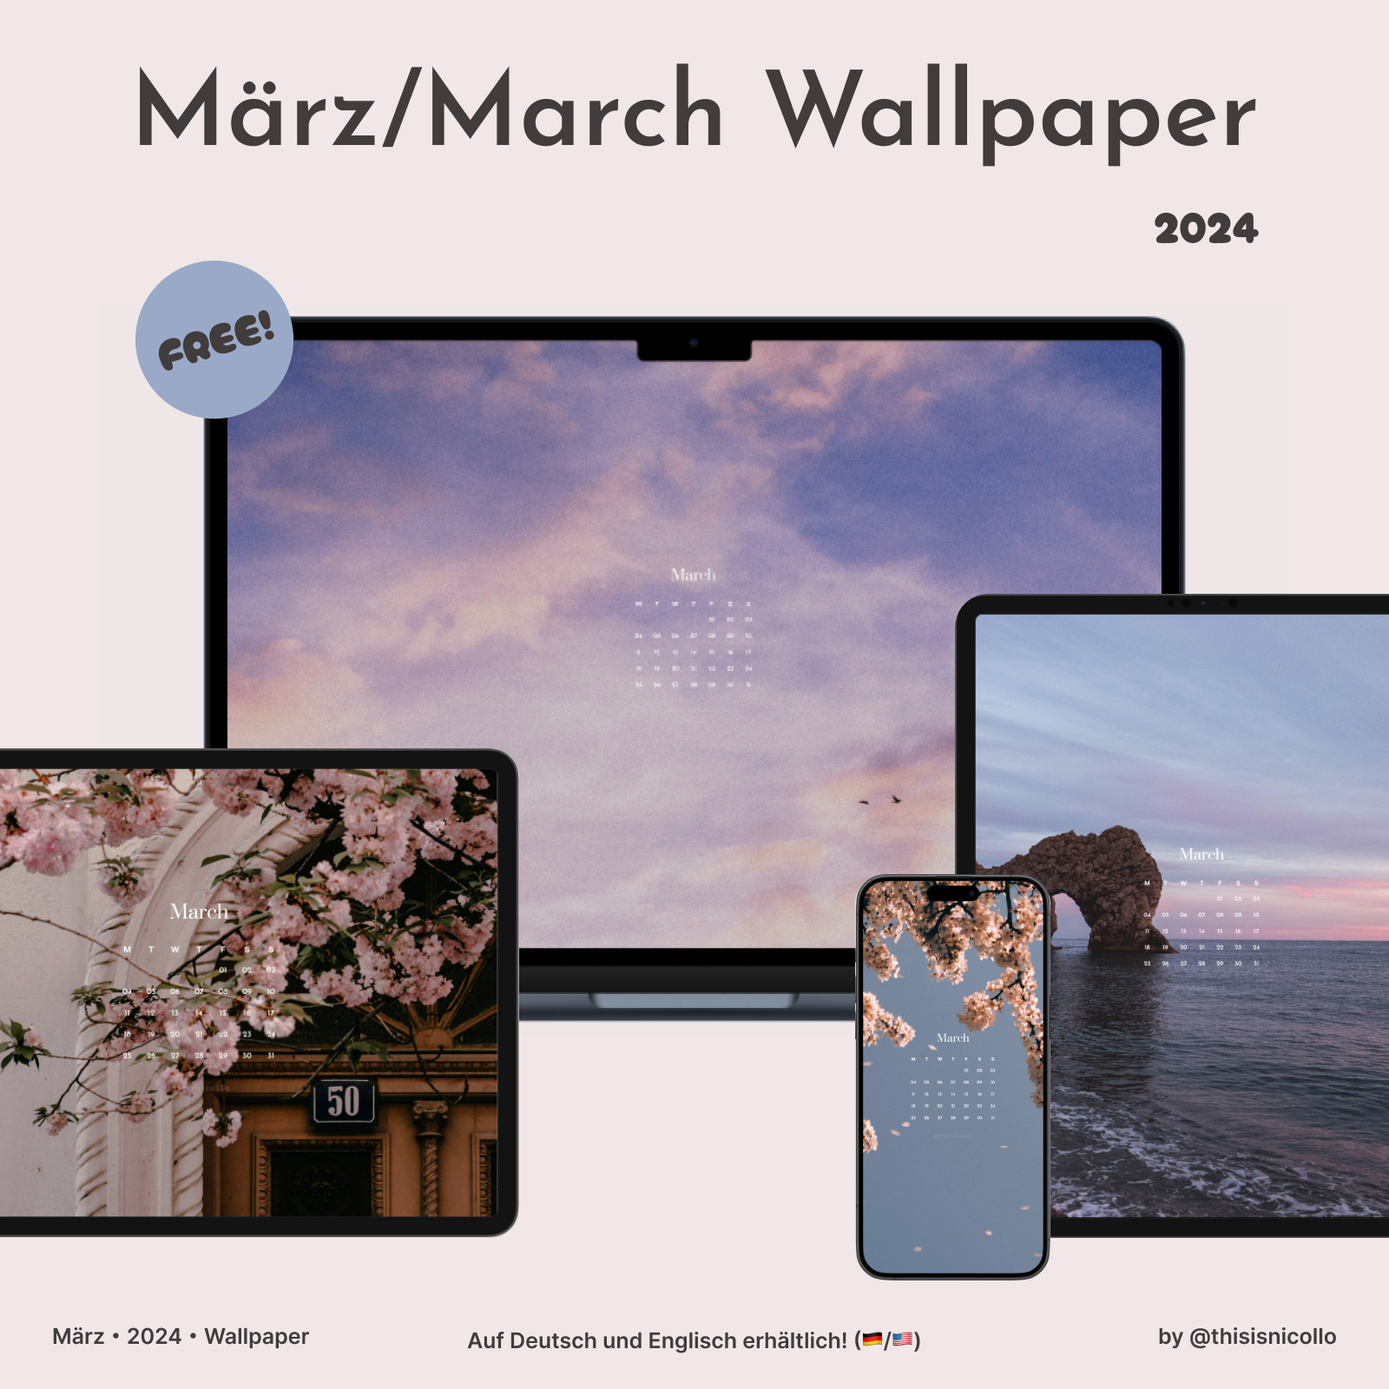
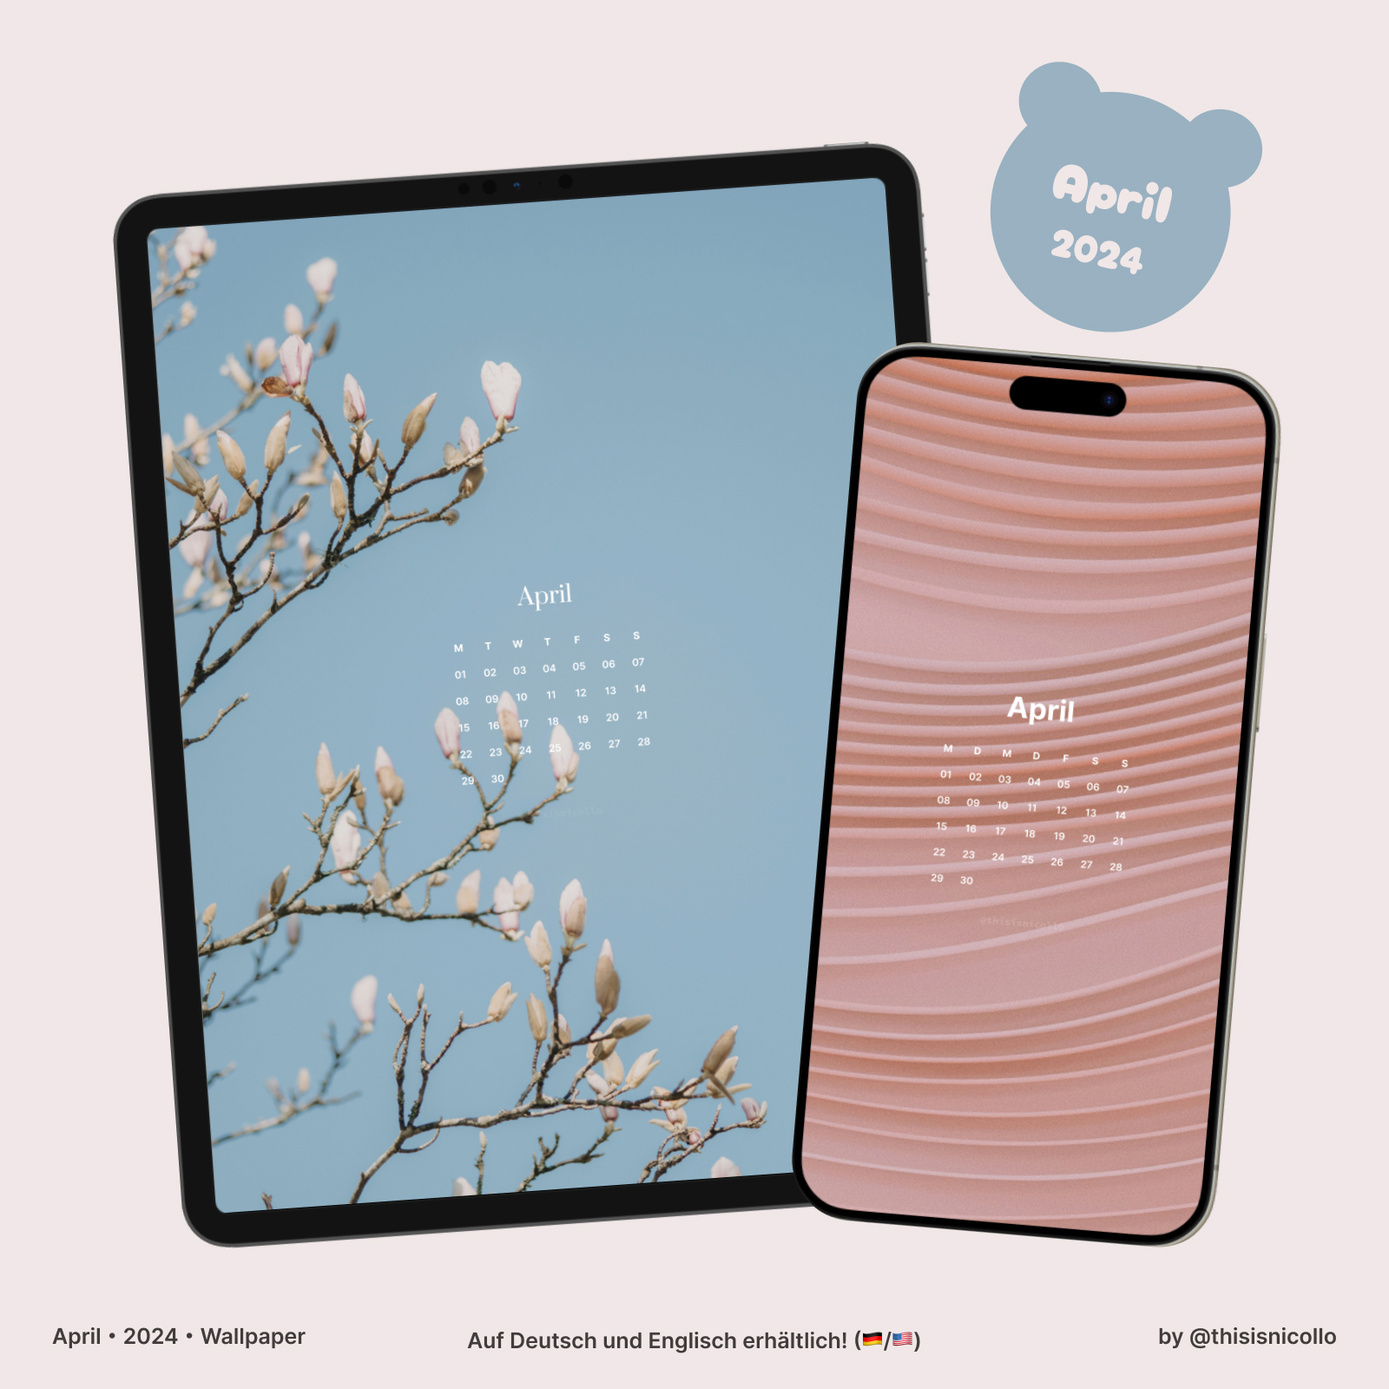
04_2024

diff --git a/README.md b/README.md
@@ -1,14 +1,15 @@
 <p align="center">
-  <img src="Assets/March_2024_Wallpaper1.jpg" alt="März 2024 Wallpaper Titel" width="">
+  <img src="Assets/April_2024_Wallpaper1.jpg" alt="April 2024 Wallpaper Titel" width="">
 </p>
 
-# 🖼 März 2024 Wallpaper 
+# 🖼 April 2024 Wallpaper 
 
-Der März ist da und der Frühling rückt immer näher! Es ist die Zeit, in der die Natur erwacht, Blumen blühen und die Tage länger werden. Um diese wunderbare Jahreszeit zu feiern, habe ich eine Sammlung passender Wallpaper für den März und den aufkommenden Frühling zusammengestellt. 🌷✨ 
+Der April ist endlich da,! Die Natur erwacht, die Blumen beginnen zu blühen, und die Tage werden länger.🐇🌸
+Um diese zauberhafte Jahreszeit zu feiern, habe ich eine Sammlung passender Wallpaper für den April zusammengestellt. 
 
-Schau dich um und finde das perfekte Wallpaper für dich 🧸💻🤍!
+Wähle dein Lieblings-Wallpaper und genieße den Frühling in vollen Zügen! 🌷🤍!
 
-[⏬🌷Wallpaper Vorschau](#wallpaper)<br><br>[⏬🇺🇸English below](#english)
+[⏬💗Wallpaper Vorschau](#wallpaper)<br><br>[⏬🇺🇸English below](#english)
 
 ## 📥 Nutzung
 Bitte beachte, dass die Nutzung der Bilder ausschließlich für die privatenutzung bestimmt ist. Jegliche kommerzielle Nutzung oder Weiterverbreitung der Bilder ist ohne ausdrückliche Genehmigung der Rechteinhaber untersagt.
@@ -23,8 +24,8 @@ Eine genaue Anleitung zum Downloaden findest du hier: [YouTube Tutorial](https:/
 
 <p align="center">
   <img src="Assets/Bild-1.jpg" width="33%" />
-  <img src="Assets/Bild-3.jpg" width="33%" /> 
-  <img src="Assets/Bild-2.jpg" width="33%" />
+  <img src="Assets/Bild-2.jpg" width="33%" /> 
+  <img src="Assets/Bild-3.jpg" width="33%" />
 </p>
 
 ## 📄 Hinweis
@@ -38,21 +39,22 @@ Ich möchte sicherstellen, dass alle Rechte Respektiert werden und darum die ent
 Diese Sammlung wurde von [thisisnicollo](https://github.com/thisisnicollo) erstellt. <div id="english"></div> 
 
 ## 🖥 Alle Wallpaper
-Die folgenden Vorschaubilder sind für Desktop, Smartphone und Tablet erhältlich. Die Kalender sind auf Deutsch und Englisch verfügbar. <br>
-[⏬🌷Wallpaper Vorschau](#wallpaper)
+Die folgenden Vorschaubilder sind für Desktop, Smartphone und Tablet erhältlich. Die Kalender sind auf Deutsch und Englisch sowie auch in zwei Schriftarten verfügbar. <br>
+[⏬💗Wallpaper Vorschau](#wallpaper)
 
 
-# 🖼 March 2024 Wallpaper
+# 🖼 April 2024 Wallpaper
 
-March is here, and spring is getting closer and closer! It's the time when nature awakens, flowers bloom, and the days grow longer. To celebrate this wonderful season, I've put together a collection of suitable wallpapers for March and the upcoming spring. 🌷✨
+April is finally here! Nature is awakening, the flowers are starting to bloom and the days are getting longer.🐇🌸 
+To celebrate this magical time of year, I've put together a collection of suitable wallpapers for April. 
 
-Take a look around and find the perfect wallpaper for you! 🧸💻🤍
+Choose your favorite wallpaper and enjoy spring to the fullest 🌷🤍!
 
 ## 📥 Usage
 Please note that the use of the images is strictly for personal use only. Any commercial use or redistribution of the images is prohibited without the explicit permission of the copyright holders.
 
 **Download instructions:**
-1. go to [Releases](https://github.com/thisisnicollo/March_2024_Wallpaper/releases) on the right.
+1. go to [Releases](https://github.com/thisisnicollo/April_2024_Wallpaper/releases) on the right.
 2. select the desired language and device category (e.g. English/Desktop).
 3. click on the corresponding package (zip).
 4. unzip the ZIP file and use the contained images as background on your devices.
@@ -61,8 +63,8 @@ You can find detailed instructions for downloading here: [YouTube Tutorial](http
 
 <p align="center">
   <img src="Assets/Bild-1.jpg" width="33%" />
-  <img src="Assets/Bild-3.jpg" width="33%" /> 
-  <img src="Assets/Bild-2.jpg" width="33%" />
+  <img src="Assets/Bild-2.jpg" width="33%" /> 
+  <img src="Assets/Bild-3.jpg" width="33%" />
 </p>
 
 ## 📄 Disclaimer
@@ -77,106 +79,226 @@ This collection were created by [thisisnicollo](https://github.com/thisisnicollo
 <div id="wallpaper"></div> 
 
 ## 🖥 All Wallpapers
-The Wallpapers are available for desktop, smartphone and tablet.
+The Wallpapers are available for desktop, smartphone and tablet. The calendars are available in German and English as well as in two fonts.
 
-### 🖥 [Desktop](Desktop)
+### 🖥 Desktop Sans Serif
 
-#### 🇩🇪 [Deutsch](Desktop/Deutsch)
+#### 🇩🇪 [Deutsch](Deutsch/Desktop/Sans_Serif)
 <p align="center">
-  <img src="Desktop/Deutsch/02_Desktop_DE.jpg" width="46%" />
-  <img src="Desktop/Deutsch/12_Desktop_DE.jpg" width="46%" />
-  <img src="Desktop/Deutsch/03_Desktop_DE.jpg" width="46%" />
-  <img src="Desktop/Deutsch/01_Desktop_DE.jpg" width="46%" />
-  <img src="Desktop/Deutsch/08_Desktop_DE.jpg" width="46%" />
-  <img src="Desktop/Deutsch/05_Desktop_DE.jpg" width="46%" />
-  <img src="Desktop/Deutsch/07_Desktop_DE.jpg" width="46%" />
-  <img src="Desktop/Deutsch/09_Desktop_DE.jpg" width="46%" />
-  <img src="Desktop/Deutsch/04_Desktop_DE.jpg" width="46%" />
-  <img src="Desktop/Deutsch/10_Desktop_DE.jpg" width="46%" />
-  <img src="Desktop/Deutsch/06_Desktop_DE.jpg" width="46%" />
-  <img src="Desktop/Deutsch/11_Desktop_DE.jpg" width="46%" />
+  <img src="Deutsch/Desktop/Sans_Serif/01_Desktop_DE.jpg" width="46%" />
+  <img src="Deutsch/Desktop/Sans_Serif/02_Desktop_DE.jpg" width="46%" />
+  <img src="Deutsch/Desktop/Sans_Serif/03_Desktop_DE.jpg" width="46%" />
+  <img src="Deutsch/Desktop/Sans_Serif/04_Desktop_DE.jpg" width="46%" />
+  <img src="Deutsch/Desktop/Sans_Serif/05_Desktop_DE.jpg" width="46%" />
+  <img src="Deutsch/Desktop/Sans_Serif/06_Desktop_DE.jpg" width="46%" />
+  <img src="Deutsch/Desktop/Sans_Serif/07_Desktop_DE.jpg" width="46%" />
+  <img src="Deutsch/Desktop/Sans_Serif/08_Desktop_DE.jpg" width="46%" />
+  <img src="Deutsch/Desktop/Sans_Serif/09_Desktop_DE.jpg" width="46%" />
+  <img src="Deutsch/Desktop/Sans_Serif/10_Desktop_DE.jpg" width="46%" />
+  <img src="Deutsch/Desktop/Sans_Serif/11_Desktop_DE.jpg" width="46%" />
+  <img src="Deutsch/Desktop/Sans_Serif/12_Desktop_DE.jpg" width="46%" />
+  <img src="Deutsch/Desktop/Sans_Serif/13_Desktop_DE.jpg" width="46%" />
 </p>
 
-#### 🇺🇸 [English](Desktop/English)
+#### 🇺🇸 [English](English/Desktop/Sans_Serif)
 <p align="center">
-  <img src="Desktop/English/02_Desktop_EN.jpg" width="46%" />
-  <img src="Desktop/English/12_Desktop_EN.jpg" width="46%" />
-  <img src="Desktop/English/03_Desktop_EN.jpg" width="46%" />
-  <img src="Desktop/English/01_Desktop_EN.jpg" width="46%" />
-  <img src="Desktop/English/08_Desktop_EN.jpg" width="46%" />
-  <img src="Desktop/English/05_Desktop_EN.jpg" width="46%" />
-  <img src="Desktop/English/07_Desktop_EN.jpg" width="46%" />
-  <img src="Desktop/English/09_Desktop_EN.jpg" width="46%" />
-  <img src="Desktop/English/04_Desktop_EN.jpg" width="46%" />
-  <img src="Desktop/English/10_Desktop_EN.jpg" width="46%" />
-  <img src="Desktop/English/06_Desktop_EN.jpg" width="46%" />
-  <img src="Desktop/English/11_Desktop_EN.jpg" width="46%" />
+  <img src="English/Desktop/Sans_Serif/01_Desktop_EN.jpg" width="46%" />
+  <img src="English/Desktop/Sans_Serif/02_Desktop_EN.jpg" width="46%" />
+  <img src="English/Desktop/Sans_Serif/03_Desktop_EN.jpg" width="46%" />
+  <img src="English/Desktop/Sans_Serif/04_Desktop_EN.jpg" width="46%" />
+  <img src="English/Desktop/Sans_Serif/05_Desktop_EN.jpg" width="46%" />
+  <img src="English/Desktop/Sans_Serif/06_Desktop_EN.jpg" width="46%" />
+  <img src="English/Desktop/Sans_Serif/07_Desktop_EN.jpg" width="46%" />
+  <img src="English/Desktop/Sans_Serif/08_Desktop_EN.jpg" width="46%" />
+  <img src="English/Desktop/Sans_Serif/09_Desktop_EN.jpg" width="46%" />
+  <img src="English/Desktop/Sans_Serif/10_Desktop_EN.jpg" width="46%" />
+  <img src="English/Desktop/Sans_Serif/11_Desktop_EN.jpg" width="46%" />
+  <img src="English/Desktop/Sans_Serif/12_Desktop_EN.jpg" width="46%" />
+  <img src="English/Desktop/Sans_Serif/13_Desktop_EN.jpg" width="46%" />
 </p>
 
-### 📱 [Smartphone](Smartphone)
+### 🖥 Desktop Serif
 
-#### 🇩🇪 [Deutsch](Smartphone/Deutsch)
+#### 🇩🇪 [Deutsch](Deutsch/Desktop/Serif)
 <p align="center">
-  <img src="Smartphone/Deutsch/02_Smartphone_DE.png" width="15%" />
-  <img src="Smartphone/Deutsch/12_Smartphone_DE.png" width="15%" />
-  <img src="Smartphone/Deutsch/03_Smartphone_DE.png" width="15%" />
-  <img src="Smartphone/Deutsch/01_Smartphone_DE.png" width="15%" />
-  <img src="Smartphone/Deutsch/08_Smartphone_DE.png" width="15%" />
-  <img src="Smartphone/Deutsch/05_Smartphone_DE.png" width="15%" />
-  <img src="Smartphone/Deutsch/07_Smartphone_DE.png" width="15%" />
-  <img src="Smartphone/Deutsch/09_Smartphone_DE.png" width="15%" />
-  <img src="Smartphone/Deutsch/04_Smartphone_DE.png" width="15%" />
-  <img src="Smartphone/Deutsch/10_Smartphone_DE.png" width="15%" />
-  <img src="Smartphone/Deutsch/06_Smartphone_DE.png" width="15%" />
-  <img src="Smartphone/Deutsch/11_Smartphone_DE.png" width="15%" />
+  <img src="Deutsch/Desktop/Serif/01_Desktop_DE.jpg" width="46%" />
+  <img src="Deutsch/Desktop/Serif/02_Desktop_DE.jpg" width="46%" />
+  <img src="Deutsch/Desktop/Serif/03_Desktop_DE.jpg" width="46%" />
+  <img src="Deutsch/Desktop/Serif/04_Desktop_DE.jpg" width="46%" />
+  <img src="Deutsch/Desktop/Serif/05_Desktop_DE.jpg" width="46%" />
+  <img src="Deutsch/Desktop/Serif/06_Desktop_DE.jpg" width="46%" />
+  <img src="Deutsch/Desktop/Serif/07_Desktop_DE.jpg" width="46%" />
+  <img src="Deutsch/Desktop/Serif/08_Desktop_DE.jpg" width="46%" />
+  <img src="Deutsch/Desktop/Serif/09_Desktop_DE.jpg" width="46%" />
+  <img src="Deutsch/Desktop/Serif/10_Desktop_DE.jpg" width="46%" />
+  <img src="Deutsch/Desktop/Serif/11_Desktop_DE.jpg" width="46%" />
+  <img src="Deutsch/Desktop/Serif/12_Desktop_DE.jpg" width="46%" />
+  <img src="Deutsch/Desktop/Serif/13_Desktop_DE.jpg" width="46%" />
 </p>
 
-#### 🇺🇸 [English](Smartphone/Englisch)
+#### 🇺🇸 [English](English/Desktop/Serif)
 <p align="center">
-  <img src="Smartphone/Englisch/02_Smartphone_EN.png" width="15%" />
-  <img src="Smartphone/Englisch/12_Smartphone_EN.png" width="15%" />
-  <img src="Smartphone/Englisch/03_Smartphone_EN.png" width="15%" />
-  <img src="Smartphone/Englisch/01_Smartphone_EN.png" width="15%" />
-  <img src="Smartphone/Englisch/08_Smartphone_EN.png" width="15%" />
-  <img src="Smartphone/Englisch/05_Smartphone_EN.png" width="15%" />
-  <img src="Smartphone/Englisch/07_Smartphone_EN.png" width="15%" />
-  <img src="Smartphone/Englisch/09_Smartphone_EN.png" width="15%" />
-  <img src="Smartphone/Englisch/04_Smartphone_EN.png" width="15%" />
-  <img src="Smartphone/Englisch/10_Smartphone_EN.png" width="15%" />
-  <img src="Smartphone/Englisch/06_Smartphone_EN.png" width="15%" />
-  <img src="Smartphone/Englisch/11_Smartphone_EN.png" width="15%" />
+  <img src="English/Desktop/Serif/01_Desktop_EN.jpg" width="46%" />
+  <img src="English/Desktop/Serif/02_Desktop_EN.jpg" width="46%" />
+  <img src="English/Desktop/Serif/03_Desktop_EN.jpg" width="46%" />
+  <img src="English/Desktop/Serif/04_Desktop_EN.jpg" width="46%" />
+  <img src="English/Desktop/Serif/05_Desktop_EN.jpg" width="46%" />
+  <img src="English/Desktop/Serif/06_Desktop_EN.jpg" width="46%" />
+  <img src="English/Desktop/Serif/07_Desktop_EN.jpg" width="46%" />
+  <img src="English/Desktop/Serif/08_Desktop_EN.jpg" width="46%" />
+  <img src="English/Desktop/Serif/09_Desktop_EN.jpg" width="46%" />
+  <img src="English/Desktop/Serif/10_Desktop_EN.jpg" width="46%" />
+  <img src="English/Desktop/Serif/11_Desktop_EN.jpg" width="46%" />
+  <img src="English/Desktop/Serif/12_Desktop_EN.jpg" width="46%" />
 </p>
 
-### 📱 [Tablet](Tablet)
+### 📱 Smartphone Sans Serif
 
-#### 🇩🇪 [Deutsch](Tablet/Deutsch)
+#### 🇩🇪 [Deutsch](Deutsch/Smartphone/Sans_Serif)
 <p align="center">
-  <img src="Tablet/Deutsch/02_Tablet_DE.png" width="15%" />
-  <img src="Tablet/Deutsch/12_Tablet_DE.jpg" width="15%" />
-  <img src="Tablet/Deutsch/03_Tablet_DE.png" width="15%" />
-  <img src="Tablet/Deutsch/01_Tablet_DE.png" width="15%" />
-  <img src="Tablet/Deutsch/08_Tablet_DE.jpg" width="15%" />
-  <img src="Tablet/Deutsch/05_Tablet_DE.jpg" width="15%" />
-  <img src="Tablet/Deutsch/07_Tablet_DE.jpg" width="15%" />
-  <img src="Tablet/Deutsch/09_Tablet_DE.jpg" width="15%" />
-  <img src="Tablet/Deutsch/04_Tablet_DE.jpg" width="15%" />
-  <img src="Tablet/Deutsch/10_Tablet_DE.jpg" width="15%" />
-  <img src="Tablet/Deutsch/06_Tablet_DE.jpg" width="15%" />
-  <img src="Tablet/Deutsch/11_Tablet_DE.jpg" width="15%" />
+  <img src="Deutsch/Smartphone/Sans_Serif/01_Smartphone_DE.jpg" width="15%" />
+  <img src="Deutsch/Smartphone/Sans_Serif/02_Smartphone_DE.jpg" width="15%" />
+  <img src="Deutsch/Smartphone/Sans_Serif/03_Smartphone_DE.jpg" width="15%" />
+  <img src="Deutsch/Smartphone/Sans_Serif/04_Smartphone_DE.jpg" width="15%" />
+  <img src="Deutsch/Smartphone/Sans_Serif/05_Smartphone_DE.jpg" width="15%" />
+  <img src="Deutsch/Smartphone/Sans_Serif/06_Smartphone_DE.jpg" width="15%" />
+  <img src="Deutsch/Smartphone/Sans_Serif/07_Smartphone_DE.jpg" width="15%" />
+  <img src="Deutsch/Smartphone/Sans_Serif/08_Smartphone_DE.jpg" width="15%" />
+  <img src="Deutsch/Smartphone/Sans_Serif/09_Smartphone_DE.jpg" width="15%" />
+  <img src="Deutsch/Smartphone/Sans_Serif/10_Smartphone_DE.jpg" width="15%" />
+  <img src="Deutsch/Smartphone/Sans_Serif/11_Smartphone_DE.jpg" width="15%" />
+  <img src="Deutsch/Smartphone/Sans_Serif/12_Smartphone_DE.jpg" width="15%" />
+  <img src="Deutsch/Smartphone/Sans_Serif/13_Smartphone_DE.jpg" width="15%" />
+  <img src="Deutsch/Smartphone/Sans_Serif/14_Smartphone_DE.jpg" width="15%" />
 </p>
 
-#### 🇺🇸 [English](Tablet/English)
+#### 🇺🇸 [English](English/Smartphone/Sans_Serif)
+<p align="center">
+  <img src="English/Smartphone/Sans_Serif/01_Smartphone_EN.jpg" width="15%" />
+  <img src="English/Smartphone/Sans_Serif/02_Smartphone_EN.jpg" width="15%" />
+  <img src="English/Smartphone/Sans_Serif/03_Smartphone_EN.jpg" width="15%" />
+  <img src="English/Smartphone/Sans_Serif/04_Smartphone_EN.jpg" width="15%" />
+  <img src="English/Smartphone/Sans_Serif/05_Smartphone_EN.jpg" width="15%" />
+  <img src="English/Smartphone/Sans_Serif/06_Smartphone_EN.jpg" width="15%" />
+  <img src="English/Smartphone/Sans_Serif/07_Smartphone_EN.jpg" width="15%" />
+  <img src="English/Smartphone/Sans_Serif/08_Smartphone_EN.jpg" width="15%" />
+  <img src="English/Smartphone/Sans_Serif/09_Smartphone_EN.jpg" width="15%" />
+  <img src="English/Smartphone/Sans_Serif/10_Smartphone_EN.jpg" width="15%" />
+  <img src="English/Smartphone/Sans_Serif/11_Smartphone_EN.jpg" width="15%" />
+  <img src="English/Smartphone/Sans_Serif/12_Smartphone_EN.jpg" width="15%" />
+  <img src="English/Smartphone/Sans_Serif/13_Smartphone_EN.jpg" width="15%" />
+  <img src="English/Smartphone/Sans_Serif/14_Smartphone_EN.jpg" width="15%" />
+</p>
+
+### 📱 Smartphone Serif
+
+#### 🇩🇪 [Deutsch](Deutsch/Smartphone/Serif)
+<p align="center">
+  <img src="Deutsch/Smartphone/Serif/01_Smartphone_DE.jpg" width="15%" />
+  <img src="Deutsch/Smartphone/Serif/02_Smartphone_DE.jpg" width="15%" />
+  <img src="Deutsch/Smartphone/Serif/03_Smartphone_DE.jpg" width="15%" />
+  <img src="Deutsch/Smartphone/Serif/04_Smartphone_DE.jpg" width="15%" />
+  <img src="Deutsch/Smartphone/Serif/05_Smartphone_DE.jpg" width="15%" />
+  <img src="Deutsch/Smartphone/Serif/06_Smartphone_DE.jpg" width="15%" />
+  <img src="Deutsch/Smartphone/Serif/07_Smartphone_DE.jpg" width="15%" />
+  <img src="Deutsch/Smartphone/Serif/08_Smartphone_DE.jpg" width="15%" />
+  <img src="Deutsch/Smartphone/Serif/09_Smartphone_DE.jpg" width="15%" />
+  <img src="Deutsch/Smartphone/Serif/10_Smartphone_DE.jpg" width="15%" />
+  <img src="Deutsch/Smartphone/Serif/11_Smartphone_DE.jpg" width="15%" />
+  <img src="Deutsch/Smartphone/Serif/12_Smartphone_DE.jpg" width="15%" />
+  <img src="Deutsch/Smartphone/Serif/13_Smartphone_DE.jpg" width="15%" />
+</p>
+
+#### 🇺🇸 [English](English/Smartphone/Serif)
+<p align="center">
+  <img src="English/Smartphone/Serif/01_Smartphone_EN.jpg" width="15%" />
+  <img src="English/Smartphone/Serif/02_Smartphone_EN.jpg" width="15%" />
+  <img src="English/Smartphone/Serif/03_Smartphone_EN.jpg" width="15%" />
+  <img src="English/Smartphone/Serif/04_Smartphone_EN.jpg" width="15%" />
+  <img src="English/Smartphone/Serif/05_Smartphone_EN.jpg" width="15%" />
+  <img src="English/Smartphone/Serif/06_Smartphone_EN.jpg" width="15%" />
+  <img src="English/Smartphone/Serif/07_Smartphone_EN.jpg" width="15%" />
+  <img src="English/Smartphone/Serif/08_Smartphone_EN.jpg" width="15%" />
+  <img src="English/Smartphone/Serif/09_Smartphone_EN.jpg" width="15%" />
+  <img src="English/Smartphone/Serif/10_Smartphone_EN.jpg" width="15%" />
+  <img src="English/Smartphone/Serif/11_Smartphone_EN.jpg" width="15%" />
+  <img src="English/Smartphone/Serif/12_Smartphone_EN.jpg" width="15%" />
+  <img src="English/Smartphone/Serif/13_Smartphone_EN.jpg" width="15%" />
+  <img src="English/Smartphone/Serif/14_Smartphone_EN.jpg" width="15%" />
+</p>
+
+### 📱 Tablet Sans Serif
+
+#### 🇩🇪 [Deutsch](Deutsch&/Tablet/Sans_Serif)
+<p align="center">
+  <img src="Deutsch/Tablet/Sans_Serif/01_Tablet_DE.jpg" width="15%" />
+  <img src="Deutsch/Tablet/Sans_Serif/02_Tablet_DE.jpg" width="15%" />
+  <img src="Deutsch/Tablet/Sans_Serif/03_Tablet_DE.jpg" width="15%" />
+  <img src="Deutsch/Tablet/Sans_Serif/04_Tablet_DE.jpg" width="15%" />
+  <img src="Deutsch/Tablet/Sans_Serif/05_Tablet_DE.jpg" width="15%" />
+  <img src="Deutsch/Tablet/Sans_Serif/06_Tablet_DE.jpg" width="15%" />
+  <img src="Deutsch/Tablet/Sans_Serif/07_Tablet_DE.jpg" width="15%" />
+  <img src="Deutsch/Tablet/Sans_Serif/08_Tablet_DE.jpg" width="15%" />
+  <img src="Deutsch/Tablet/Sans_Serif/09_Tablet_DE.jpg" width="15%" />
+  <img src="Deutsch/Tablet/Sans_Serif/10_Tablet_DE.jpg" width="15%" />
+  <img src="Deutsch/Tablet/Sans_Serif/11_Tablet_DE.jpg" width="15%" />
+  <img src="Deutsch/Tablet/Sans_Serif/12_Tablet_DE.jpg" width="15%" />
+  <img src="Deutsch/Tablet/Sans_Serif/13_Tablet_DE.jpg" width="15%" />
+  <img src="Deutsch/Tablet/Sans_Serif/14_Tablet_DE.jpg" width="15%" />
+</p>
+
+#### 🇺🇸 [English](English/Tablet/Sans_Serif)
 <p align="center"> 
-  <img src="Tablet/English/02_Tablet_EN.png" width="15%" />
-  <img src="Tablet/English/12_Tablet_EN.jpg" width="15%" />
-  <img src="Tablet/English/03_Tablet_EN.png" width="15%" />
-  <img src="Tablet/English/01_Tablet_EN.png" width="15%" />
-  <img src="Tablet/English/08_Tablet_EN.jpg" width="15%" />
-  <img src="Tablet/English/05_Tablet_EN.jpg" width="15%" />
-  <img src="Tablet/English/07_Tablet_EN.jpg" width="15%" />
-  <img src="Tablet/English/09_Tablet_EN.jpg" width="15%" />
-  <img src="Tablet/English/04_Tablet_EN.jpg" width="15%" />
-  <img src="Tablet/English/10_Tablet_EN.jpg" width="15%" />
-  <img src="Tablet/English/06_Tablet_EN.jpg" width="15%" />
-  <img src="Tablet/English/11_Tablet_EN.jpg" width="15%" />
+  <img src="English/Tablet/Sans_Serif/01_Tablet_EN.jpg" width="15%" />
+  <img src="English/Tablet/Sans_Serif/02_Tablet_EN.jpg" width="15%" />
+  <img src="English/Tablet/Sans_Serif/03_Tablet_EN.jpg" width="15%" />
+  <img src="English/Tablet/Sans_Serif/04_Tablet_EN.jpg" width="15%" />
+  <img src="English/Tablet/Sans_Serif/05_Tablet_EN.jpg" width="15%" />
+  <img src="English/Tablet/Sans_Serif/06_Tablet_EN.jpg" width="15%" />
+  <img src="English/Tablet/Sans_Serif/07_Tablet_EN.jpg" width="15%" />
+  <img src="English/Tablet/Sans_Serif/08_Tablet_EN.jpg" width="15%" />
+  <img src="English/Tablet/Sans_Serif/09_Tablet_EN.jpg" width="15%" />
+  <img src="English/Tablet/Sans_Serif/10_Tablet_EN.jpg" width="15%" />
+  <img src="English/Tablet/Sans_Serif/11_Tablet_EN.jpg" width="15%" />
+  <img src="English/Tablet/Sans_Serif/12_Tablet_EN.jpg" width="15%" />
+  <img src="English/Tablet/Sans_Serif/13_Tablet_EN.jpg" width="15%" />
+  <img src="English/Tablet/Sans_Serif/14_Tablet_EN.jpg" width="15%" />
+</p>
+
+### 📱 Tablet Serif
+
+#### 🇩🇪 [Deutsch](Deutsch/Tablet/Serif)
+<p align="center">
+  <img src="Deutsch/Tablet/Serif/01_Tablet_DE.jpg" width="15%" />
+  <img src="Deutsch/Tablet/Serif/02_Tablet_DE.jpg" width="15%" />
+  <img src="Deutsch/Tablet/Serif/03_Tablet_DE.jpg" width="15%" />
+  <img src="Deutsch/Tablet/Serif/04_Tablet_DE.jpg" width="15%" />
+  <img src="Deutsch/Tablet/Serif/05_Tablet_DE.jpg" width="15%" />
+  <img src="Deutsch/Tablet/Serif/06_Tablet_DE.jpg" width="15%" />
+  <img src="Deutsch/Tablet/Serif/07_Tablet_DE.jpg" width="15%" />
+  <img src="Deutsch/Tablet/Serif/08_Tablet_DE.jpg" width="15%" />
+  <img src="Deutsch/Tablet/Serif/09_Tablet_DE.jpg" width="15%" />
+  <img src="Deutsch/Tablet/Serif/10_Tablet_DE.jpg" width="15%" />
+  <img src="Deutsch/Tablet/Serif/11_Tablet_DE.jpg" width="15%" />
+  <img src="Deutsch/Tablet/Serif/12_Tablet_DE.jpg" width="15%" />
+  <img src="Deutsch/Tablet/Serif/13_Tablet_DE.jpg" width="15%" />
+  <img src="Deutsch/Tablet/Serif/14_Tablet_DE.jpg" width="15%" />
+</p>
+
+#### 🇺🇸 [English](English/Tablet/Serif)
+<p align="center"> 
+  <img src="English/Tablet/Serif/01_Tablet_EN.jpg" width="15%" />
+  <img src="English/Tablet/Serif/02_Tablet_EN.jpg" width="15%" />
+  <img src="English/Tablet/Serif/03_Tablet_EN.jpg" width="15%" />
+  <img src="English/Tablet/Serif/04_Tablet_EN.jpg" width="15%" />
+  <img src="English/Tablet/Serif/05_Tablet_EN.jpg" width="15%" />
+  <img src="English/Tablet/Serif/06_Tablet_EN.jpg" width="15%" />
+  <img src="English/Tablet/Serif/07_Tablet_EN.jpg" width="15%" />
+  <img src="English/Tablet/Serif/08_Tablet_EN.jpg" width="15%" />
+  <img src="English/Tablet/Serif/09_Tablet_EN.jpg" width="15%" />
+  <img src="English/Tablet/Serif/10_Tablet_EN.jpg" width="15%" />
+  <img src="English/Tablet/Serif/11_Tablet_EN.jpg" width="15%" />
+  <img src="English/Tablet/Serif/12_Tablet_EN.jpg" width="15%" />
+  <img src="English/Tablet/Serif/13_Tablet_EN.jpg" width="15%" />
+  <img src="English/Tablet/Serif/14_Tablet_EN.jpg" width="15%" />
 </p>
